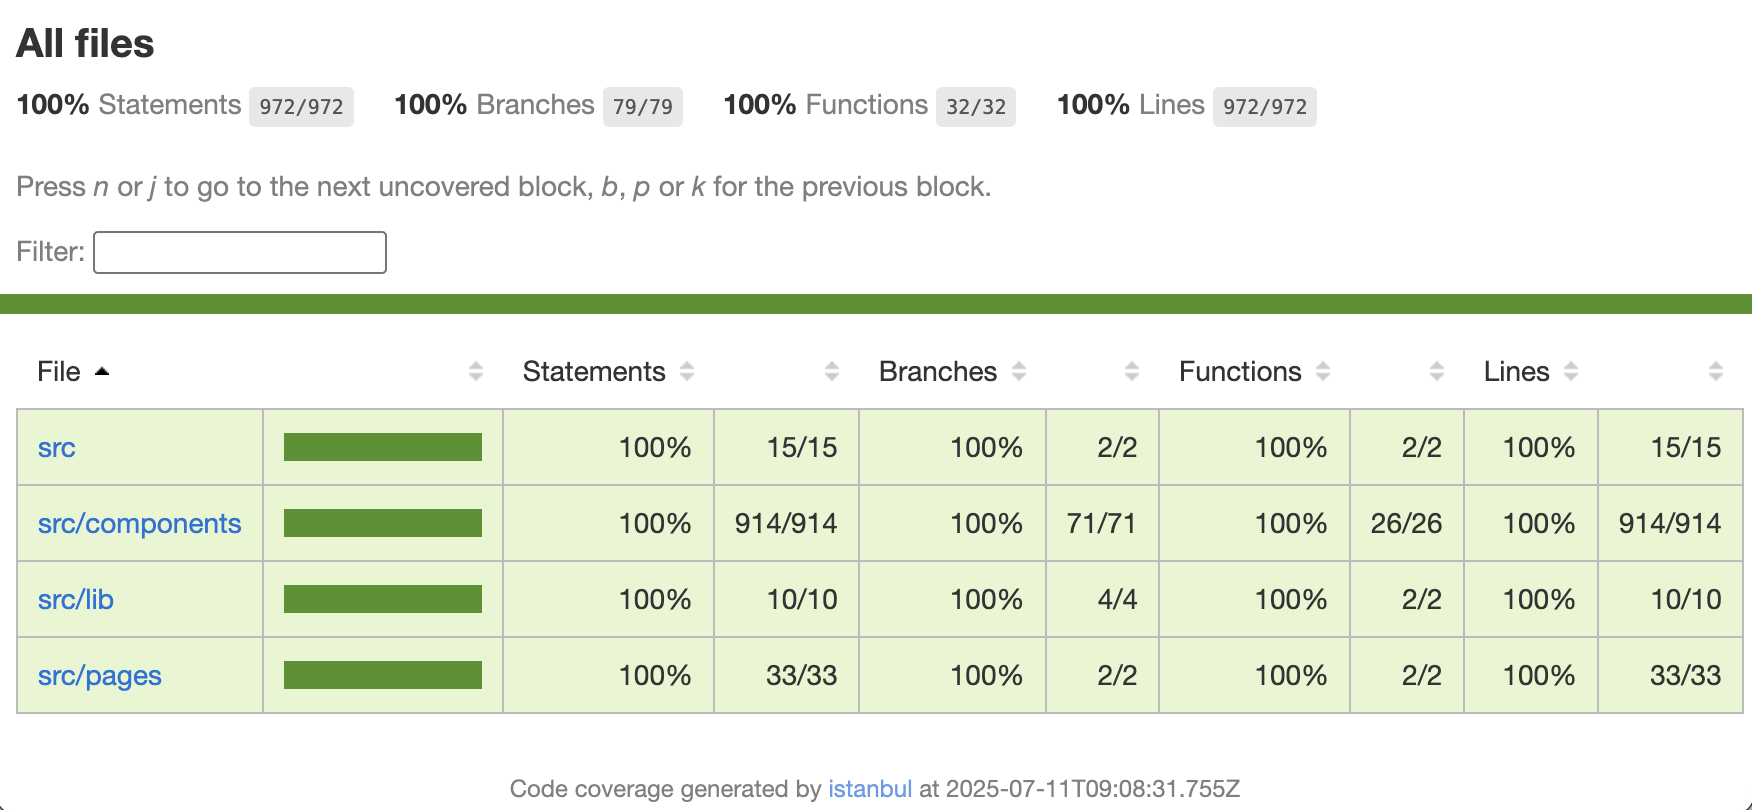
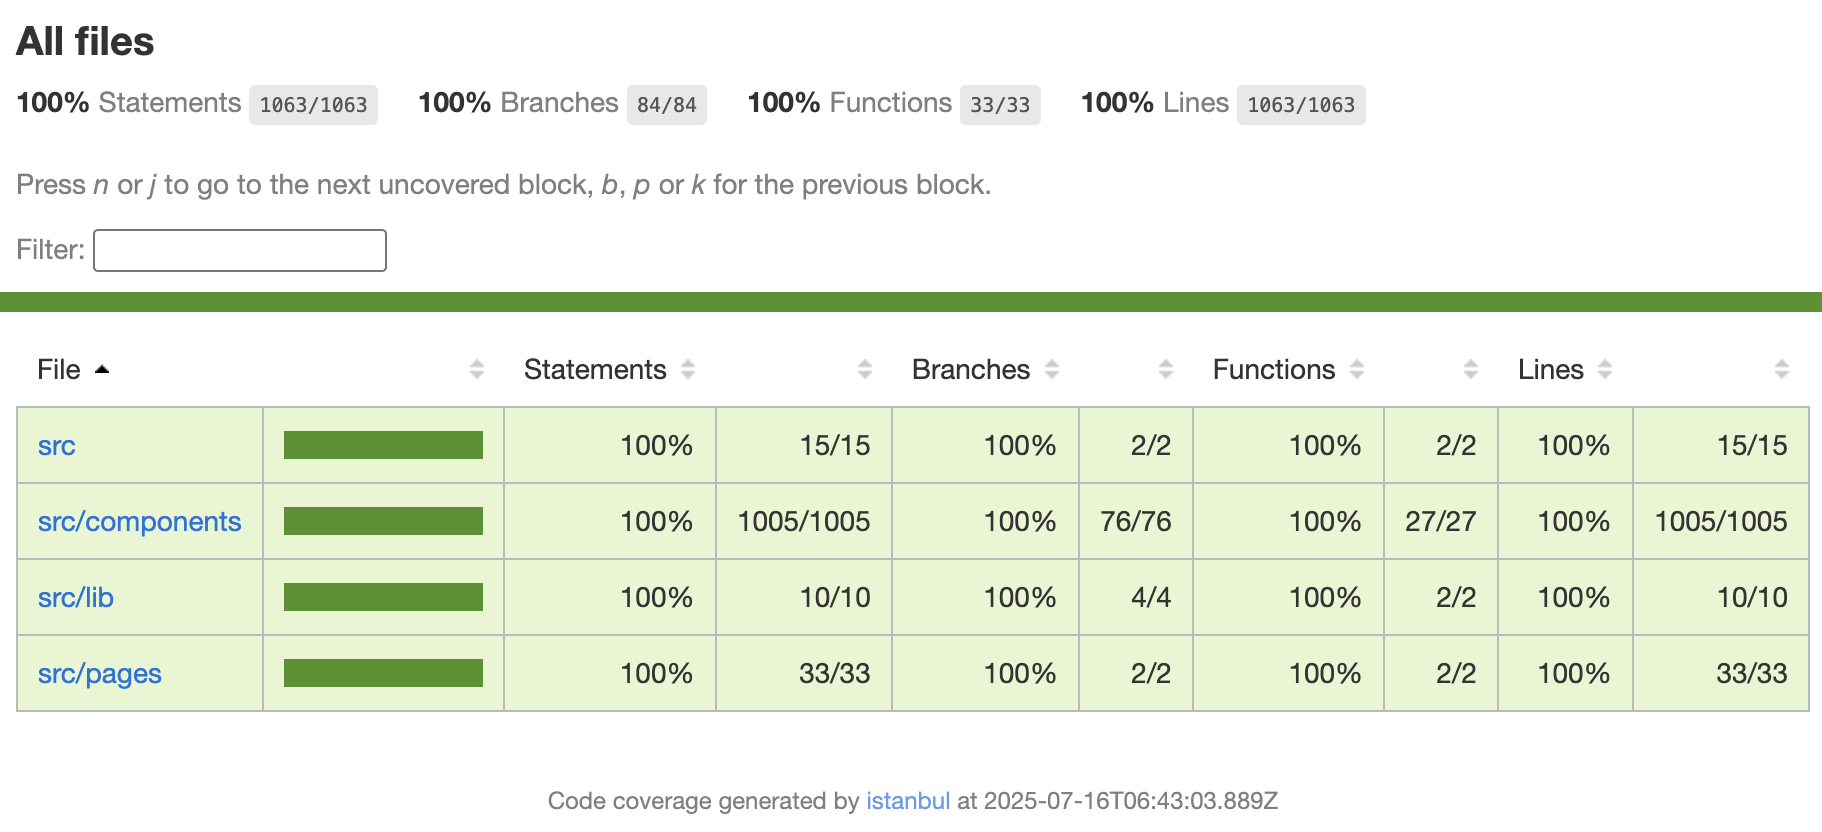
Update README with Latest Test Coverage Result

diff --git a/README.md b/README.md
@@ -24,9 +24,9 @@
 
 <img src="https://github.com/denimdatta/denimdatta.github.io/blob/982a43b727f6126f0e9a468f633d50e58264ffb9/public/files/PortfolioDemo.gif?raw=true" alt="Test Coverage Result" width="500">
 
-## Test Coverage
+## Test Coverage (*2025-07-16*)
 
-<img src="https://github.com/denimdatta/denimdatta.github.io/blob/103a66843ec2b005decded98006387c4b4c002f6/public/images/TestCoverageResult.png?raw=true" alt="Test Coverage Result" width="500">
+<img src="https://github.com/denimdatta/denimdatta.github.io/blob/main/public/images/TestCoverageResult.png?raw=true" alt="Test Coverage Result" width="500">
 
 ## References
 
